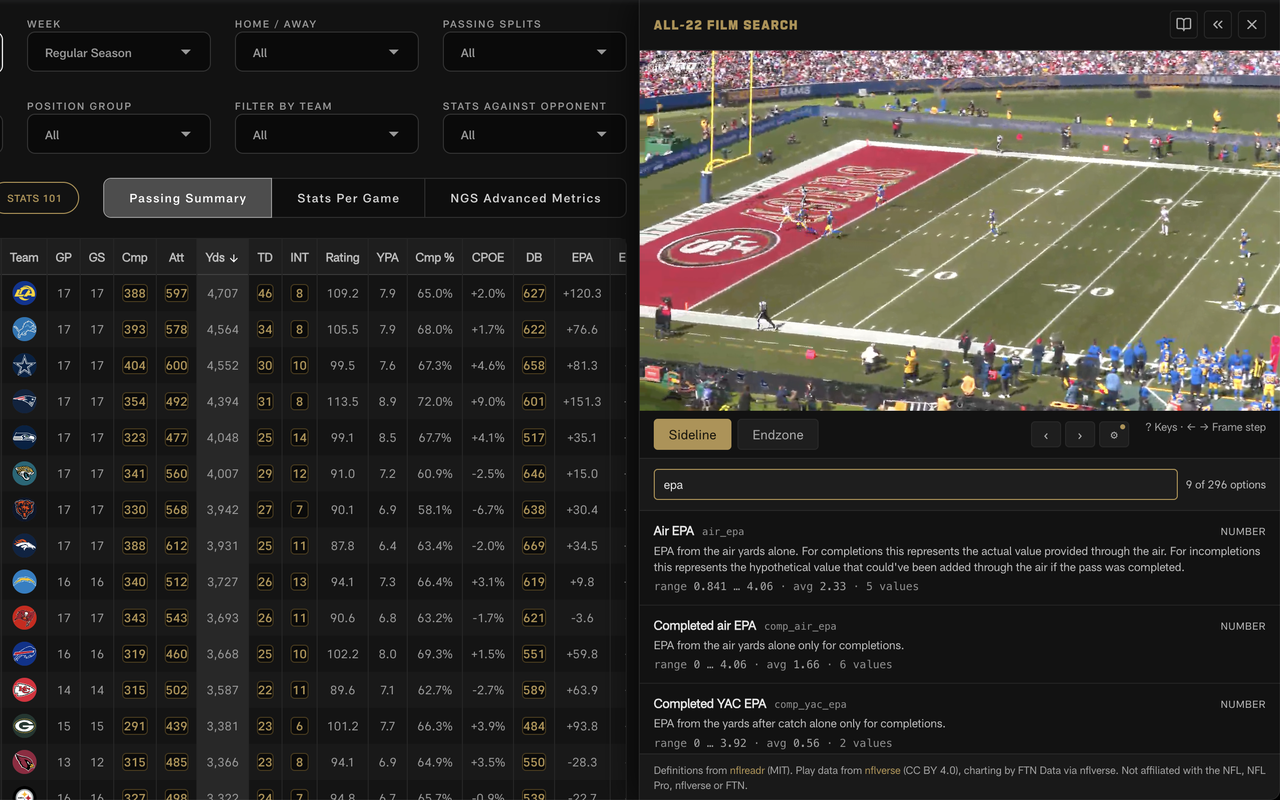
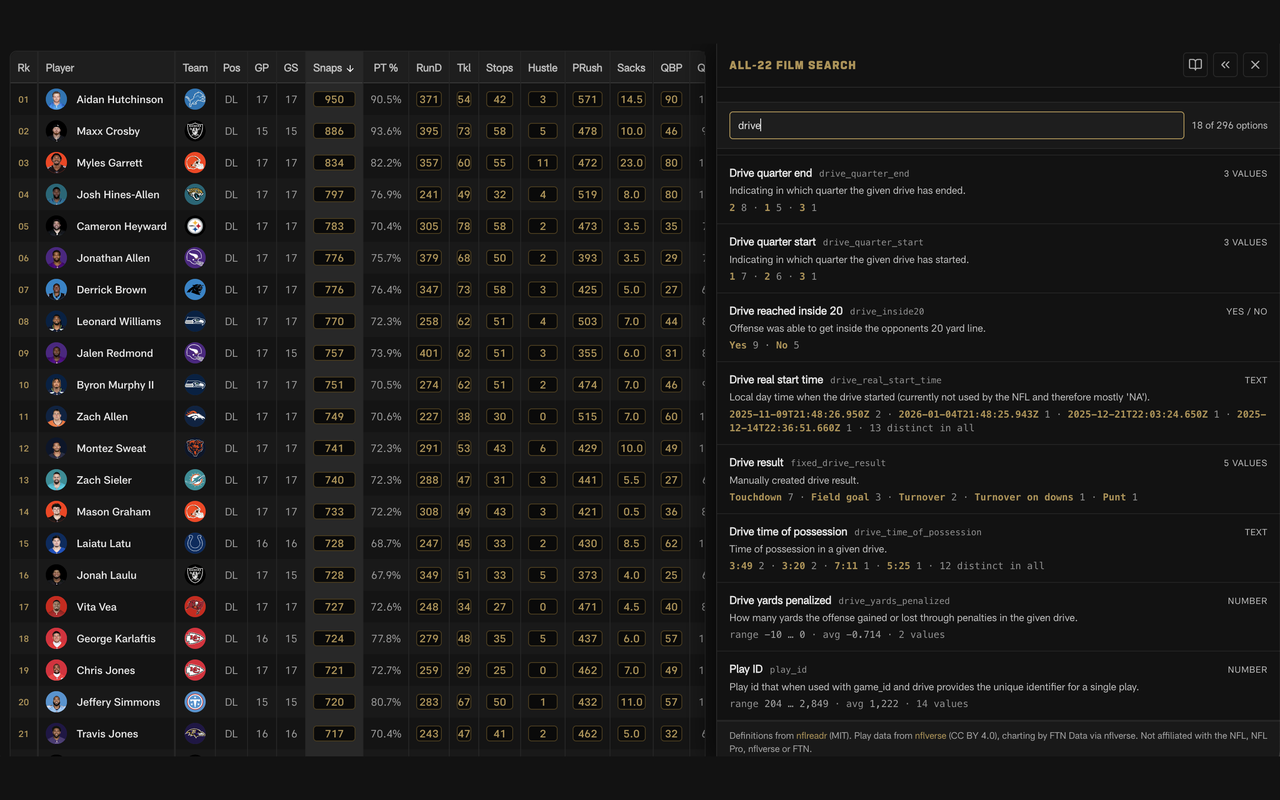
Listing: Boorish's three screenshots -- filters NFL Pro cannot do, over Pro stats pages

diff --git a/store/LISTING.md b/store/LISTING.md
@@ -42,12 +42,16 @@ reference to the service the extension works with.
 
 ### Screenshots
 
-Three at 1280×800 in `store/screenshots/`, taken 2026-09-12 from a live
-session over the Season Passing Stats page, no account details in frame:
+Three at 1280×800 in `store/screenshots/`, chosen by Boorish on 2026-09-12 to
+show what NFL Pro's own sort cannot do, each over a Pro stats page. The
+originals were 2900×1616 captures; they are padded top and bottom with the
+page background to 16:10, not cropped.
 
-1. `1-results.png` — the result list for "touchdown" over 2026 week 1
-2. `2-clip.png` — the Sideline angle of a Purdy deep touchdown, paused mid-play
-3. `3-dictionary.png` — the filter dictionary filtered to "epa"
+1. `1-rushing-clip.png` — Rhamondre Stevenson rushes, first-down runs through
+   the guard gap, sorted EPA high, with the Sideline clip playing
+2. `2-receiving-facets.png` — Amon-Ra St. Brown receiving, facets narrowed to
+   Left with YAC EPA ≥ 0.5 and screens excluded, 14 plays
+3. `3-dictionary.png` — the filter dictionary searched for "drive"
 
 Upload in that order; the first is the one shown in search results.
 
